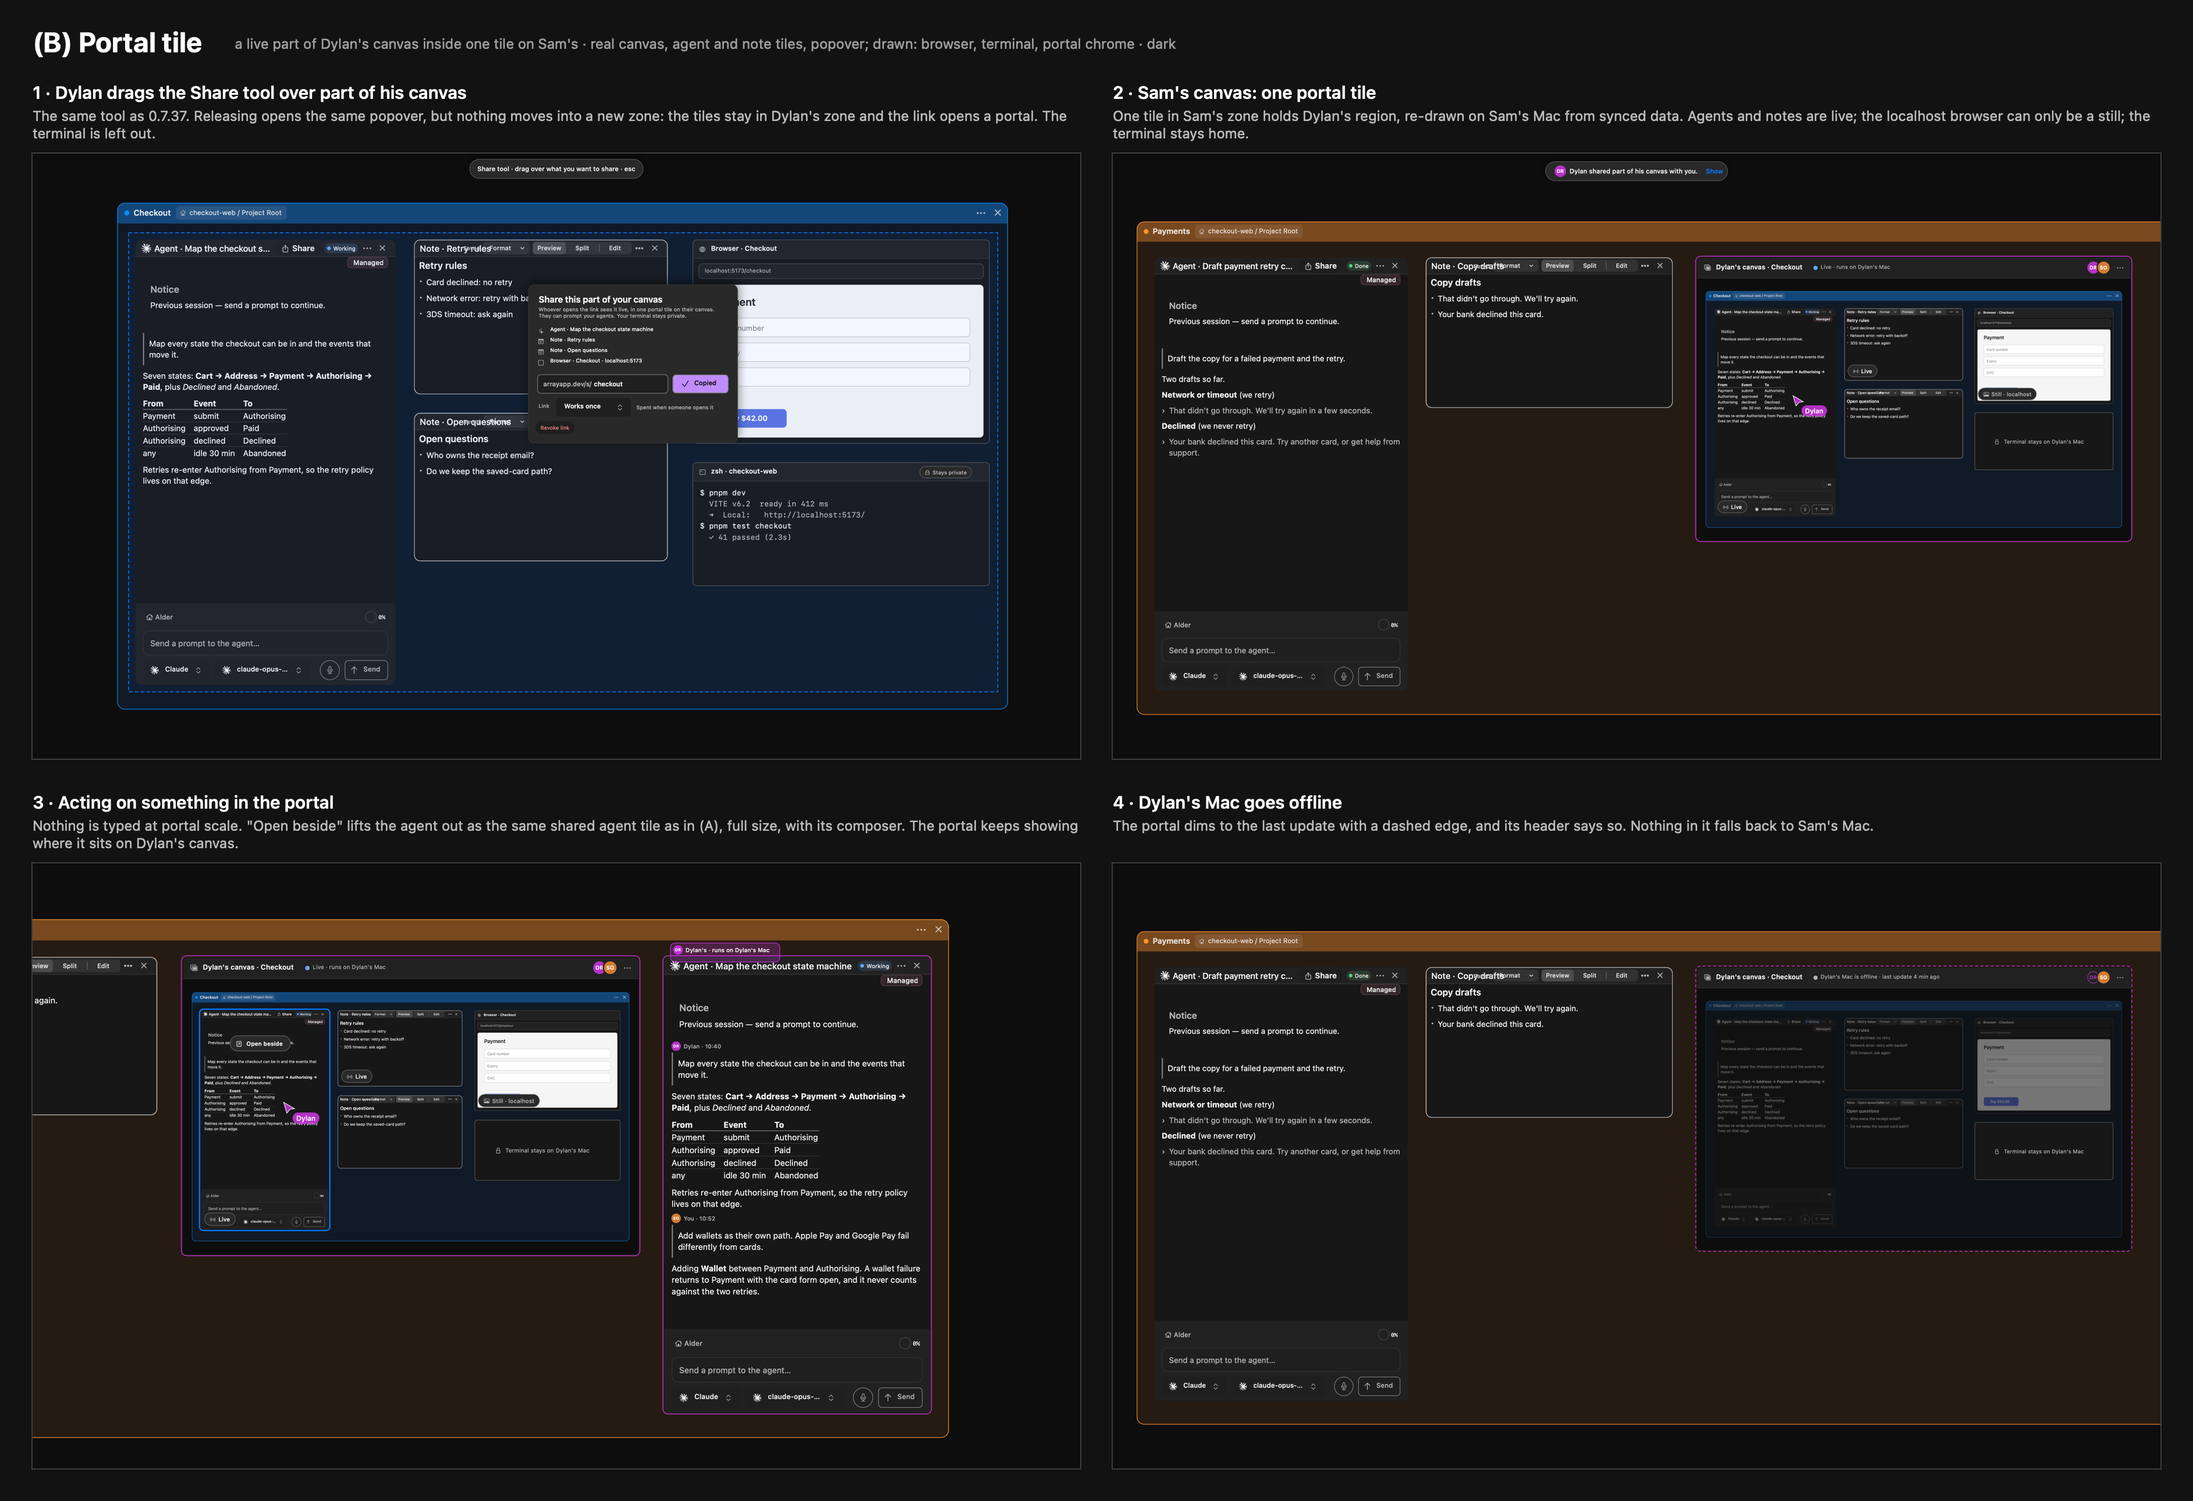
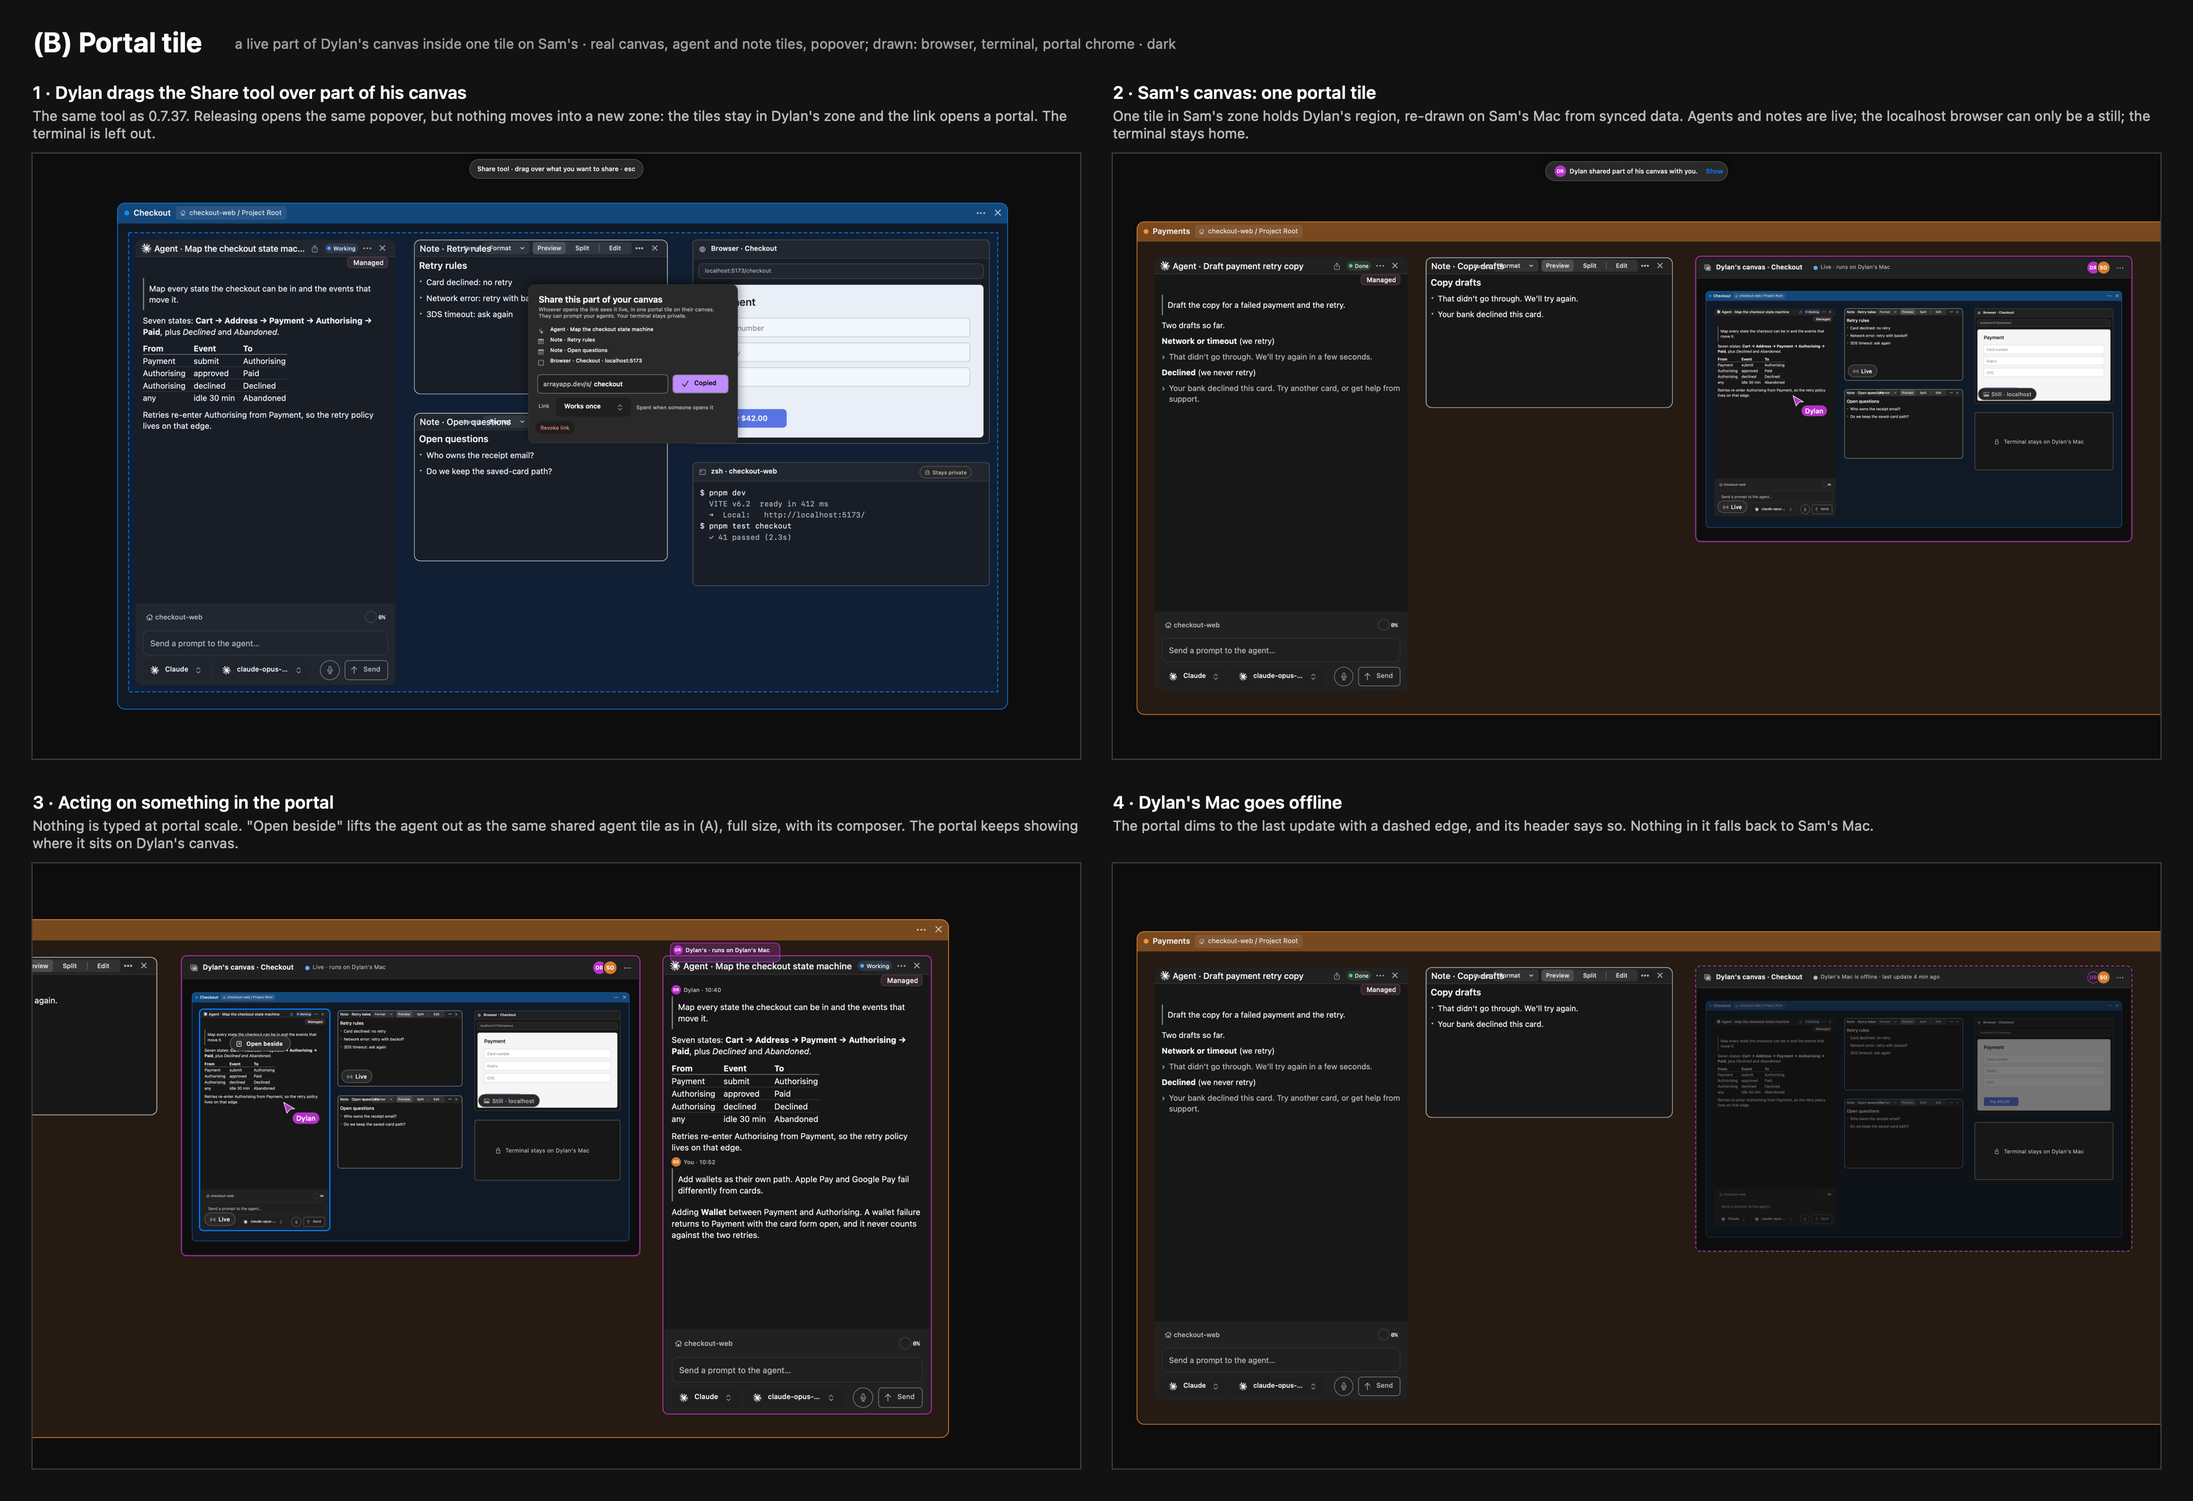
docs(collaboration): specify both share modes and their acceptance test
Dylan wants agreement before any build. A one-page spec of what the
sharer and the recipient see and can do in each mode, with the proposed
answers to the open questions, and the two-app acceptance steps each
slice must pass. The stills now show Share as one quiet icon in the
header and on the sidebar row, without the fixture's leftovers.

diff --git a/.plans/105-collaboration/SHARE-REDESIGN.md b/.plans/105-collaboration/SHARE-REDESIGN.md
@@ -4,6 +4,232 @@
 Bench `.worktrees/mp-share-design`, branch `array/mp-share-design`, on
 `origin/array/integration` 2af6fdd8 (the 0.7.37 release).
 
+## Spec: what each person sees and can do
+
+This page is for agreeing before anything is built. Dylan shares; Sam
+receives. Anything marked *(proposed)* is my recommended answer to one of
+the open questions at the end. Dylan confirms or changes it.
+
+### Mode A: share one agent
+
+**Sharing**
+- On any agent, Share is one quiet icon in the header, drawn like the
+  Terminal switch. No text.
+- The same icon appears on the agent's sidebar row when you hover it.
+- Either one opens a small popover:
+  - the link (`arrayapp.dev/s/…`), with a name you can edit
+  - Copy link
+  - how long the link lasts: "Works once" or "Until revoked"
+  - Revoke
+- Copy is what shares. Only that one agent is shared. **Nothing on Dylan's
+  canvas moves, and no zone is made.**
+- On Dylan's tile, a small tab on its top edge reads "Yours · shared with
+  Sam" once someone has joined.
+
+**What lands on Sam's canvas**
+- Sam opens the link, and Array opens (or offers the download).
+- One agent tile appears in the zone Sam is looking at, in view, beside his
+  own work. It is an ordinary agent tile: transcript, composer, header.
+- It is marked as Dylan's:
+  - an outline in Dylan's colour
+  - a tab, "Dylan's · runs on Dylan's Mac"
+- A banner says "Dylan shared an agent with you. It runs on Dylan's Mac."
+  with a Show button.
+- Sam can move, resize or close the tile on his own canvas. That never
+  changes Dylan's canvas.
+- The tile comes back after Sam relaunches.
+
+**Prompts and the transcript**
+- Both people prompt from the normal composer. Every prompt runs once, on
+  Dylan's Mac, under Dylan's CLI login, permissions and billing.
+- Both see the whole transcript, prompts included *(proposed, Q1)*.
+- Every prompt is tagged with who sent it: "You" for your own, the other
+  person's name for theirs.
+- Stop and tool approvals are Dylan's alone *(proposed, Q7)*. Sam sees that
+  the agent is waiting on Dylan.
+
+**Cursors**
+- None in mode A. The tile sits in a different place on each canvas, so a
+  cursor would point at nothing.
+- Presence is avatars on the tile's tab: who has it open right now.
+
+**Revoke**
+- Dylan reopens the popover from the same icon. It lists who has access,
+  for example "Sam · opened 10:48 · full access", with Remove beside each
+  person, and "Revoke everyone's access".
+- Once removed, Sam's tile says "Dylan stopped sharing". Nothing new
+  arrives, and Sam's prompts are refused. Sam can close the tile.
+- What Sam has already seen stays on his screen until he closes it.
+  Revoking stops future access; it cannot recall what was delivered.
+
+**When Dylan's Mac is offline**
+- Sam's tile dims, with a dashed edge.
+- The composer is replaced by "Dylan's Mac is offline · showing the last
+  update, 4 min ago."
+- A prompt Sam sends waits, marked queued. It runs once, when Dylan's Mac is
+  back.
+- Nothing ever runs on Sam's Mac instead.
+
+### Mode B: a portal into part of Dylan's canvas
+
+**Sharing**
+- Dylan picks the Share tool (toolbar or S) and drags over part of his
+  canvas. The tiles it fully covers are selected.
+- The same popover lists what goes. Terminals are marked "Stays private"
+  and are left out.
+- Copy is what shares. Nothing on Dylan's canvas moves.
+
+**What lands on Sam's canvas**
+- One portal tile, in the zone Sam is looking at.
+  - Its header reads "Dylan's canvas · Checkout · Live · runs on Dylan's
+    Mac", with avatars.
+  - Its body shows Dylan's chosen tiles where they sit on Dylan's canvas,
+    fitted to the tile. There is no panning or zooming inside it.
+- It holds only the tiles chosen when sharing *(proposed, Q2)*. A tile Dylan
+  later drags into that area is not shared. To add one, Dylan shares it into
+  the same portal.
+- When Dylan moves a shared tile, it moves in the portal too. Sam cannot
+  move Dylan's tiles *(proposed, Q3)*. He can move, resize or close the
+  portal tile itself.
+
+**What each kind does in the portal**
+- **Agent:** live. To act on it, Sam hovers and presses "Open beside". That
+  gives him the same tile as in mode A, beside the portal, with prompts and
+  names working exactly as in A.
+- **Note:** live. Only Dylan edits it *(proposed, Q4)*.
+- **File or diff:** live; each save shows up as a new revision. On a diff,
+  Sam can Approve or Request changes.
+- **Browser, public URL:** loads on Sam's Mac, with Sam's own logins.
+- **Browser, localhost or signed-in page:** a still picture marked "Still"
+  *(proposed, Q5)*.
+- **Terminal:** a card that says "Terminal stays on Dylan's Mac".
+- Nothing is streamed as video.
+
+**Cursors**
+- Dylan's cursor shows inside the portal while it is over a shared tile.
+- Sam's cursor shows on Dylan's canvas while Sam points inside the portal.
+- Cursors only appear over shared tiles.
+
+**Revoke**
+- Same popover, from the Share icon on any shared tile.
+- Sam's portal then says "Dylan stopped sharing" and stops updating. So
+  does any agent he opened beside it.
+
+**When Dylan's Mac is offline**
+- The portal dims to the last update, with a dashed edge. Its header says
+  "Dylan's Mac is offline · last update 4 min ago".
+- Agents opened beside it behave as in mode A.
+
+### Proposed answers to the open questions
+
+1. Prompt text travels to the other person: **yes**.
+2. A portal holds **the tiles chosen when sharing**, not a live rectangle.
+3. Sam **cannot** move Dylan's tiles in a portal.
+4. Sam **cannot** edit Dylan's notes in v1.
+5. Unreachable browsers show **a still**.
+6. **Ship mode A first** and try it, then build mode B.
+7. Stop and tool approvals **stay with the owner**.
+
+## Acceptance test
+
+Two Array apps, each with its own app-support dir and its own project root
+(hazard 10), both on one local relay. Drive them through the real paths: the
+pair harness (`scripts/check-collaboration-pair.py` and
+`check-collaboration-pair-features.py`) for the network, and
+`NSApp.sendEvent` for clicks. Each step names what must be true. "Within the
+window" means the relay's poll and liveness intervals, set as constants in
+the script. This list is the witness: a slice is done when its steps pass in
+the matrix's `--collaboration` block.
+
+### Mode A
+
+1. **Header share.** On the host, click the Share icon on agent T in zone Z.
+   - The popover opens, anchored to T.
+   - Nothing is published, and T has not moved.
+2. **Sidebar share.** Hover T's sidebar row and click its Share icon.
+   - The same popover opens, anchored to T on the canvas.
+3. **Copy.**
+   - A link is on the pasteboard.
+   - The relay area holds exactly one item: T's agent observation.
+   - T's zone and world frame are unchanged.
+   - The workspace document has no new zone.
+4. **Open on the guest.** Open the link through `application(_:open:)`.
+   - Exactly one new tile appears, of kind `sharedAgent`, in the guest's
+     armed zone. Its world frame is inside that zone and in view.
+   - No zone is created.
+   - No `AgentRecord` is created on the guest.
+   - The tile's tab names the host.
+5. **Guest prompts.** The guest sends P1.
+   - The host runs exactly one turn for P1.
+   - The host transcript tags P1 with the guest's name; the guest's tags it
+     "You".
+   - The reply appears on both within the window.
+6. **Host prompts.** The host sends P2.
+   - The guest transcript shows P2, tagged with the host's name, and its
+     reply, within the window.
+7. **A retry runs once.** The guest resends P1 with the same request ID.
+   - Nothing new runs; the receipt matches the first.
+8. **Controls.** The guest has no Stop and no approval control; the host
+   still has both.
+9. **Access list and Remove.** The host's popover lists the guest with
+   "full access". The host presses Remove.
+   - Within the window, the guest's tile shows the stopped state.
+   - A guest prompt is refused, and nothing runs on the host.
+10. **Works once.** Re-share with a "Works once" link. After the guest
+    joins, a third app opening the same link is refused.
+11. **Host offline.** Quit the host app.
+    - Within the liveness window the guest tile shows the offline state.
+    - A guest prompt is accepted as queued.
+    - Relaunch the host: the queued prompt runs exactly once, and the tile
+      is live again.
+12. **Guest relaunch.**
+    - The tile comes back at the same world frame and reconnects.
+    - A second install on the guest's root with no account shows the
+      placeholder, not a broken agent.
+
+### Mode B
+
+1. **Share tool.** On the host, drag the Share tool over an agent, two
+   notes, a public-URL browser, a localhost browser and a terminal.
+   - The popover lists everything but the terminal, which is marked
+     private.
+2. **Copy.**
+   - No tile has moved, and no zone was created.
+   - The relay holds the agent, the notes and both browsers, and carries no
+     terminal data.
+3. **Open on the guest.**
+   - Exactly one `sharedPortal` tile appears in the guest's armed zone.
+   - Item frames in the portal match the host's relative world frames,
+     within 1 pt at the portal's scale.
+4. **Host moves a tile.** The host moves a note.
+   - Within the window, the portal's note moves by the same relative amount.
+   - The host then drags an unshared tile into the region: nothing is
+     published, and the portal is unchanged.
+5. **Host edits a note.** The edit shows in the portal within the window.
+   The guest has no way to edit it.
+6. **Browsers and the terminal.**
+   - The public browser loads the same URL on the guest.
+   - The localhost browser shows a still marked "Still".
+   - The terminal shows as its "stays on Dylan's Mac" card.
+7. **Open beside.** The guest presses Open beside on the agent.
+   - A `sharedAgent` tile appears beside the portal.
+   - Mode A steps 5 to 8 pass through it.
+8. **Cursors.**
+   - The host's cursor over the shared agent appears in the portal at the
+     mapped point.
+   - The guest's cursor inside the portal appears on the host's canvas over
+     the same tile.
+9. **Revoke.**
+   - The portal, and the tile opened beside it, show the stopped state.
+   - No further updates arrive.
+10. **Host offline.** The portal dims to the last update, then recovers
+    when the host relaunches.
+11. **Guest relaunch.** The portal comes back at the same world frame.
+
+**What the offline harness cannot prove.** Keychain persistence, a real
+second person and two physical Macs. Those stay in ALPHA-HANDOFF.md's
+manual two-Mac run.
+
 ## What Dylan said about 0.7.37
 
 - Sharing makes a new isolated zone with a discussion panel down its right
@@ -65,12 +291,24 @@ In `share-redesign/`, light and dark:
 - The portal's body is a real capture of the host's canvas, scaled into the
   tile.
 
-**Fixture artefacts to ignore.**
-- Each agent opens with "Notice · Previous session", because the fixture's
-  records restore as idle.
-- The composer's location row says "Alder", the fixture directory's name.
-  On a real guest's shared tile it should name the host's checkout and Mac.
-  That is part of slice A2.
+**Round 2 changes.** Share is icon-only in the header, drawn like the
+Terminal switch, and on the sidebar row's hover. The fixture's leftovers are
+gone: the "Previous session" notice, and "Alder" in the location row.
+
+**What the stills simplify.** The sidebar row's hover icons are drawn on a
+real sidebar snapshot. The location row on Sam's copy of Dylan's agent reads
+"checkout-web". A real shared tile should name the host's checkout and Mac;
+that is part of slice A2.
+
+**Throwaway hooks.** The stills use local, uncommitted tweaks in the bench:
+- the quiet icon-only Share drawing in `TileNSView`;
+- `qaResetProjectionForMock`;
+- `qaSetHoveredForMock`;
+- the fixture's project folder renamed to `checkout-web`.
+
+The real icon-only Share is two lines in `layoutShare`: `labelled: false` and
+a square width. It also needs a resting state with no fill, like
+`FaceToggleControl`.
 
 **To regenerate.** The renderer is a throwaway, uncommitted in the bench:
 `CollabShareRedesignMockSheet.swift` on top of the earlier round's
@@ -87,9 +325,12 @@ Windows are off-screen and never take focus.
 
 ### (A) panels
 
-1. **Dylan shares from the header.** The real 0.7.37 Share button and
-   popover. What changes is what Copy does: the agent stays where it is, no
-   zone is made, and no tile moves.
+1. **Dylan shares from the header.**
+   - Share is one quiet icon in the header. The sidebar row shows the same
+     icon on hover.
+   - The popover is 0.7.37's.
+   - What changes is what Copy does: the agent stays where it is, no zone
+     is made, and no tile moves.
 2. **Sam's canvas.**
    - The link lands one agent tile in Sam's own zone, beside his work.
    - Dylan's colour edges it, and a tab on the top edge says "Dylan's · runs
@@ -342,6 +583,16 @@ the area's positions come from the host's world frames, not from lent tiles.
 
 ## Build plan
 
+**Which steps each slice must pass.** These come from the Acceptance test
+at the top:
+
+- A1: mode A steps 1–3.
+- A2: steps 4, 5 and 8 to 12.
+- A3: steps 5 to 7, with names.
+- B1: mode B steps 1–3 and 7–11.
+- B2: step 4 and step 5.
+- B3: step 6.
+
 **Slice size.** The checks cost far more than the code. Each slice ends
 with the named witness, reported by the matrix's `--collaboration` block.
 
@@ -413,6 +664,8 @@ A1 and A2 together are a usable release. B is worth starting only after
 Dylan has used A, because A answers part of what the portal is for.
 
 ## Open questions for Dylan
+
+My proposed answers are in the spec at the top.
 
 1. **Should prompt text travel to the guest?** Today it deliberately does
    not. "Both people's prompts show with names" needs it, and full access
